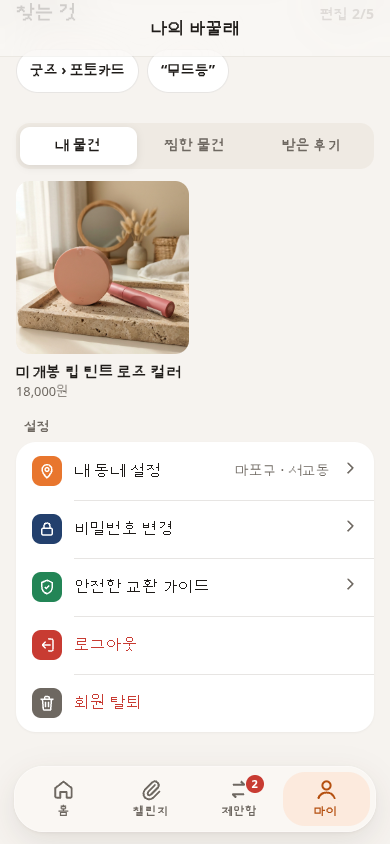
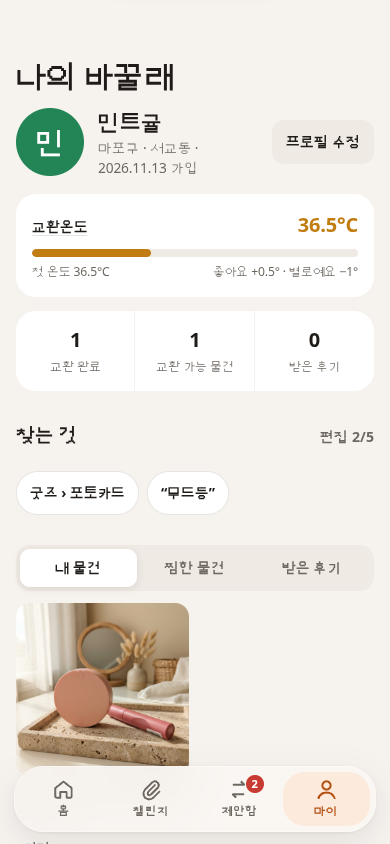
feat: update seed data to Mokpo region and enhance docs
- Refactor `supabase/seed.sql` to feature users and items exclusively in Mokpo-si
- Add validation tests for seed data integrity in `app.test.mjs`
- Update `README.md` and project assets with refined product introduction and context

diff --git a/README.md b/README.md
@@ -2,7 +2,17 @@
 
 **돈 쓰지 않고, 내가 가진 것으로 필요한 물건을 바꾸는 우리 동네 물물교환 웹앱.**
 
-서로 찾는 물건을 등록하면 잘 맞는 이웃과 자동으로 이어주고, 위치 기반 탐색과 1:1 채팅, 빨간 클립 릴레이 챌린지까지 한곳에서 즐길 수 있습니다.
+---
+
+## 앱 소개
+
+**바꿀래**는 안 쓰는 물건과 내가 찾고 있는 물건(`카테고리 · 키워드`)을 등록하면, 서로 원하는 물건을 가진 동네 이웃을 자동으로 연결해 주는 P2P 물물교환 서비스입니다.  
+지역 기반 탐색부터 교환 제안, 1:1 실시간 채팅, 그리고 작은 물건 하나를 이어 더 큰 목표에 도전하는 **빨간 클립 챌린지**까지 하나의 흐름으로 경험할 수 있습니다.
+
+## 제작 계기
+
+서랍이나 방 한쪽에 방치된 멀쩡한 물건들이 가격 흥정이나 현금 거래의 부담 없이 **꼭 필요로 하는 이웃의 손**으로 이어졌으면 하는 생각에서 출발했습니다.  
+단순히 물건을 처분하는 중고 거래를 넘어, “내가 가진 작은 물건 하나로 어디까지 바꿔볼 수 있을까?”라는 **빨간 클립 일화**의 설렘과 이웃 간의 신뢰(`교환온도`)가 쌓이는 따뜻한 교환 경험을 담고자 만들었습니다.
 
 ---
 
@@ -11,35 +21,42 @@
 ### 1. 서로 찾던 물건 자동 매칭
 가진 물건과 `찾는 것(카테고리 · 키워드)`을 등록하면, 내 물건을 원하는 이웃과 내가 찾던 물건을 **서로 찾던 물건 / 내가 찾던 물건**으로 바로 추천합니다.
 
-<img src="./docs/images/home-match.png" alt="홈 추천 매칭 화면" width="320" />
+<img src="./docs/images/home-match.png" alt="홈 자동 매칭 화면" width="320" />
 
 ---
 
 ### 2. 전국 시·도 / 시·군·구 동네 설정 & 주변 지도
-현재 위치(GPS)와 카카오맵으로 내 동네를 인증하거나, 전국 17개 시·도 및 시·군·구를 직접 선택해 탐색 범위(`2km` · `5km` · `전체 지역`) 안의 물건을 지도와 거리순으로 살펴볼 수 있습니다.
+현재 위치(GPS)와 카카오맵으로 내 동네를 인증하거나, 전국 17개 시·도 및 시·군·구를 직접 선택해 탐색 범위(`2km` · `5km` · `전체 지역`) 안의 물건을 지도 핀과 거리순으로 살펴볼 수 있습니다.
 
 <p>
   <img src="./docs/images/region-picker.png" alt="전국 시·도 및 시·군·구 내 동네 설정 화면" width="300" />
-  <img src="./docs/images/nearby-map.png" alt="내 주변 물건 지도 보기 화면" width="300" />
+  <img src="./docs/images/nearby-map.png" alt="주변 물건 지도 탐색 화면" width="300" />
 </p>
 
 ---
 
 ### 3. 교환 제안 · 1:1 실시간 채팅
-원하는 물건에 내 물건과 교환 방식(`대면` · `문고리` · `택배`), 만남 장소를 골라 제안할 수 있습니다. 제안이 수락되면 1:1 채팅방이 열리며 실시간 대화와 사진 전송, 읽음 표시를 지원합니다.
+원하는 물건에 내 물건과 교환 방식(`대면` · `문고리` · `택배`), 만남 장소를 골라 제안할 수 있습니다. 제안이 수락되면 1:1 채팅방이 열리며 실시간 대화, 사진 전송, 읽음 표시, 개인정보 입력 주의 안내를 지원합니다.
 
-<img src="./docs/images/chat-room.png" alt="1:1 교환 채팅 화면" width="320" />
+<img src="./docs/images/chat-room.png" alt="1:1 실시간 교환 채팅 화면" width="320" />
 
 ---
 
 ### 4. 빨간 클립 릴레이 챌린지
-작은 물건 하나에서 시작해 더 큰 목표 물건까지 이어가는 릴레이 교환 과정을 타임라인으로 기록하고 이웃들의 응원을 받을 수 있습니다.
+작은 물건 하나에서 시작해 목표 물건까지 이어가는 릴레이 교환 과정을 단계별 타임라인으로 기록하고, 이웃의 응원(하트)과 완주 공유 카드를 나눌 수 있습니다.
 
-<img src="./docs/images/challenge-timeline.png" alt="빨간 클립 챌린지 타임라인 화면" width="320" />
+<img src="./docs/images/challenge-timeline.png" alt="빨간 클립 릴레이 챌린지 화면" width="320" />
 
 ---
 
-### 5. 교환온도 · 후기 & 마이페이지
-교환을 마친 뒤 후기를 주고받으며 **교환온도**가 쌓이고, 내 물건 · 찜한 물건 · 받은 후기 및 동네/계정 설정을 한눈에 관리할 수 있습니다.
+### 5. 모바일 · 태블릿 · 데스크톱 반응형 UI
+모바일에서는 하단 탭바 중심의 한 손 조작 UI를, 태블릿·데스크톱 화면에서는 사이드 메뉴와 상세·채팅 화면을 오가며 빠르게 탐색할 수 있는 반응형 레이아웃을 제공합니다.
+
+<img src="./docs/images/desktop-workspace.png" alt="태블릿 및 데스크톱 사이드바와 물건 상세 화면" width="620" />
+
+---
+
+### 6. 교환온도 · 후기 & 마이페이지
+교환을 마친 뒤 후기를 주고받으며 **교환온도(°C)**가 쌓이고, 내가 등록한 물건 · 찜한 물건 · 받은 후기 및 동네/계정 설정을 마이페이지에서 한눈에 관리할 수 있습니다.
 
 <img src="./docs/images/my-page.png" alt="나의 바꿀래 마이페이지 화면" width="320" />
